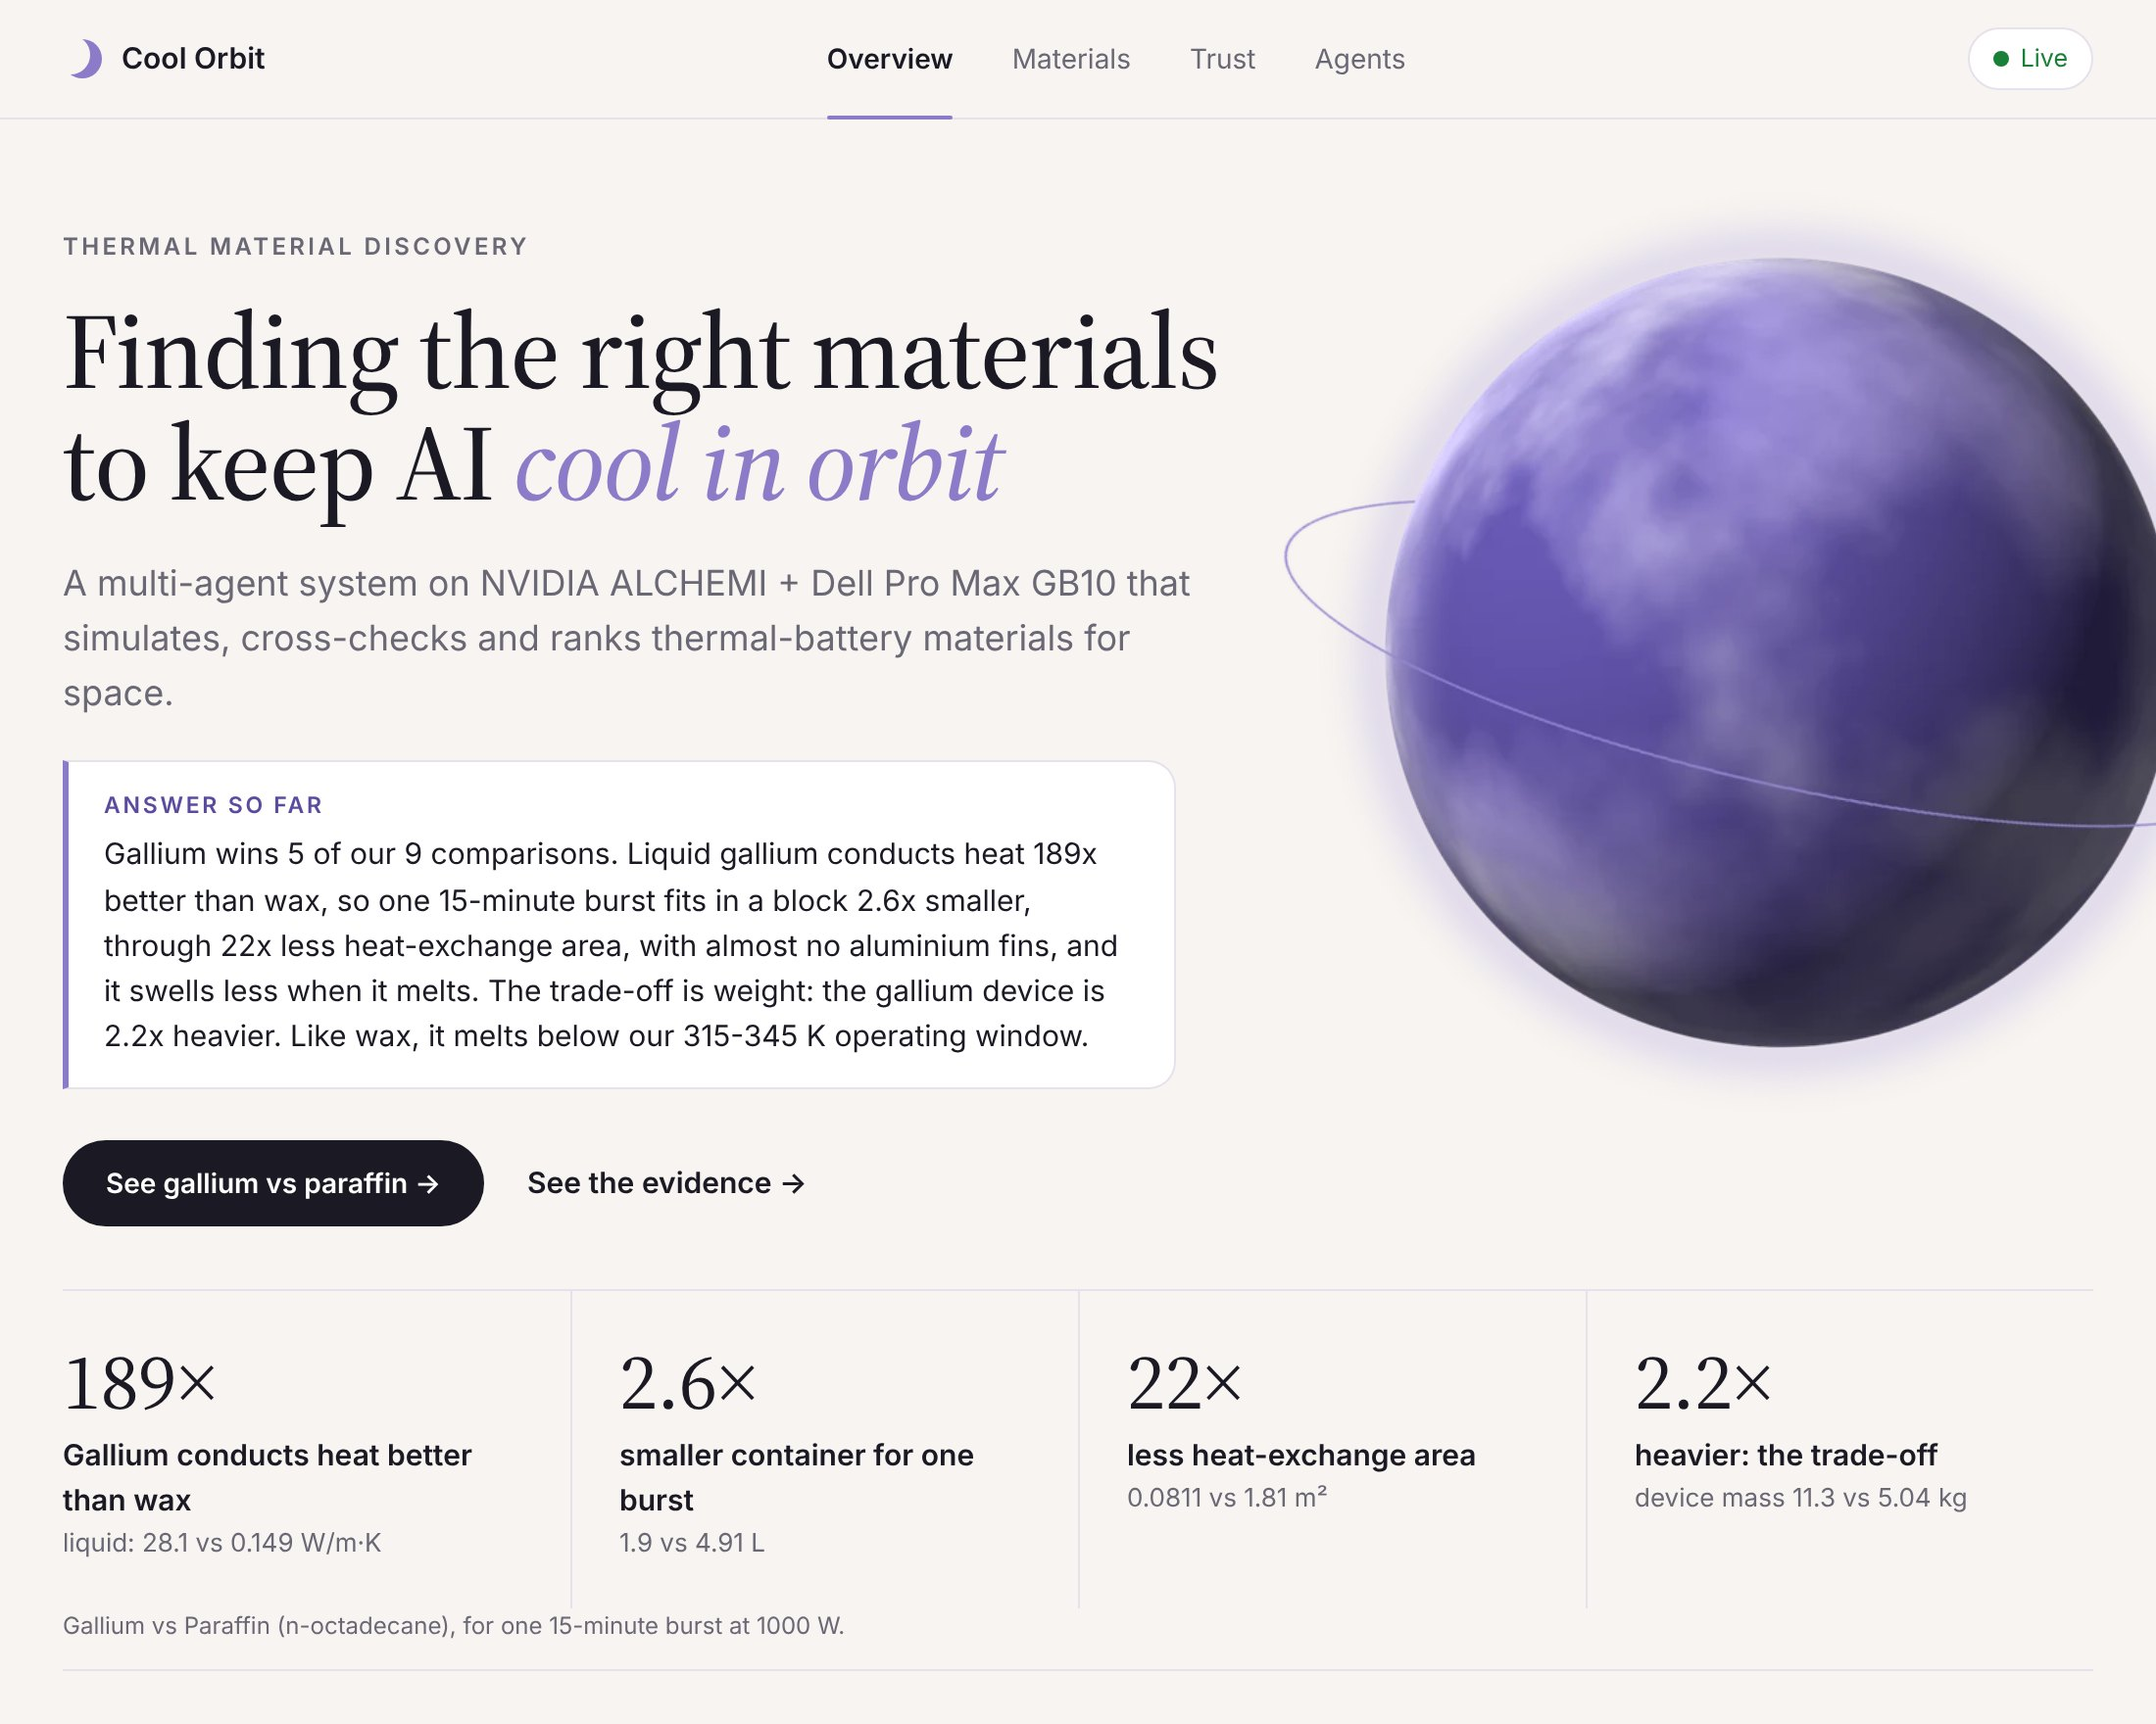
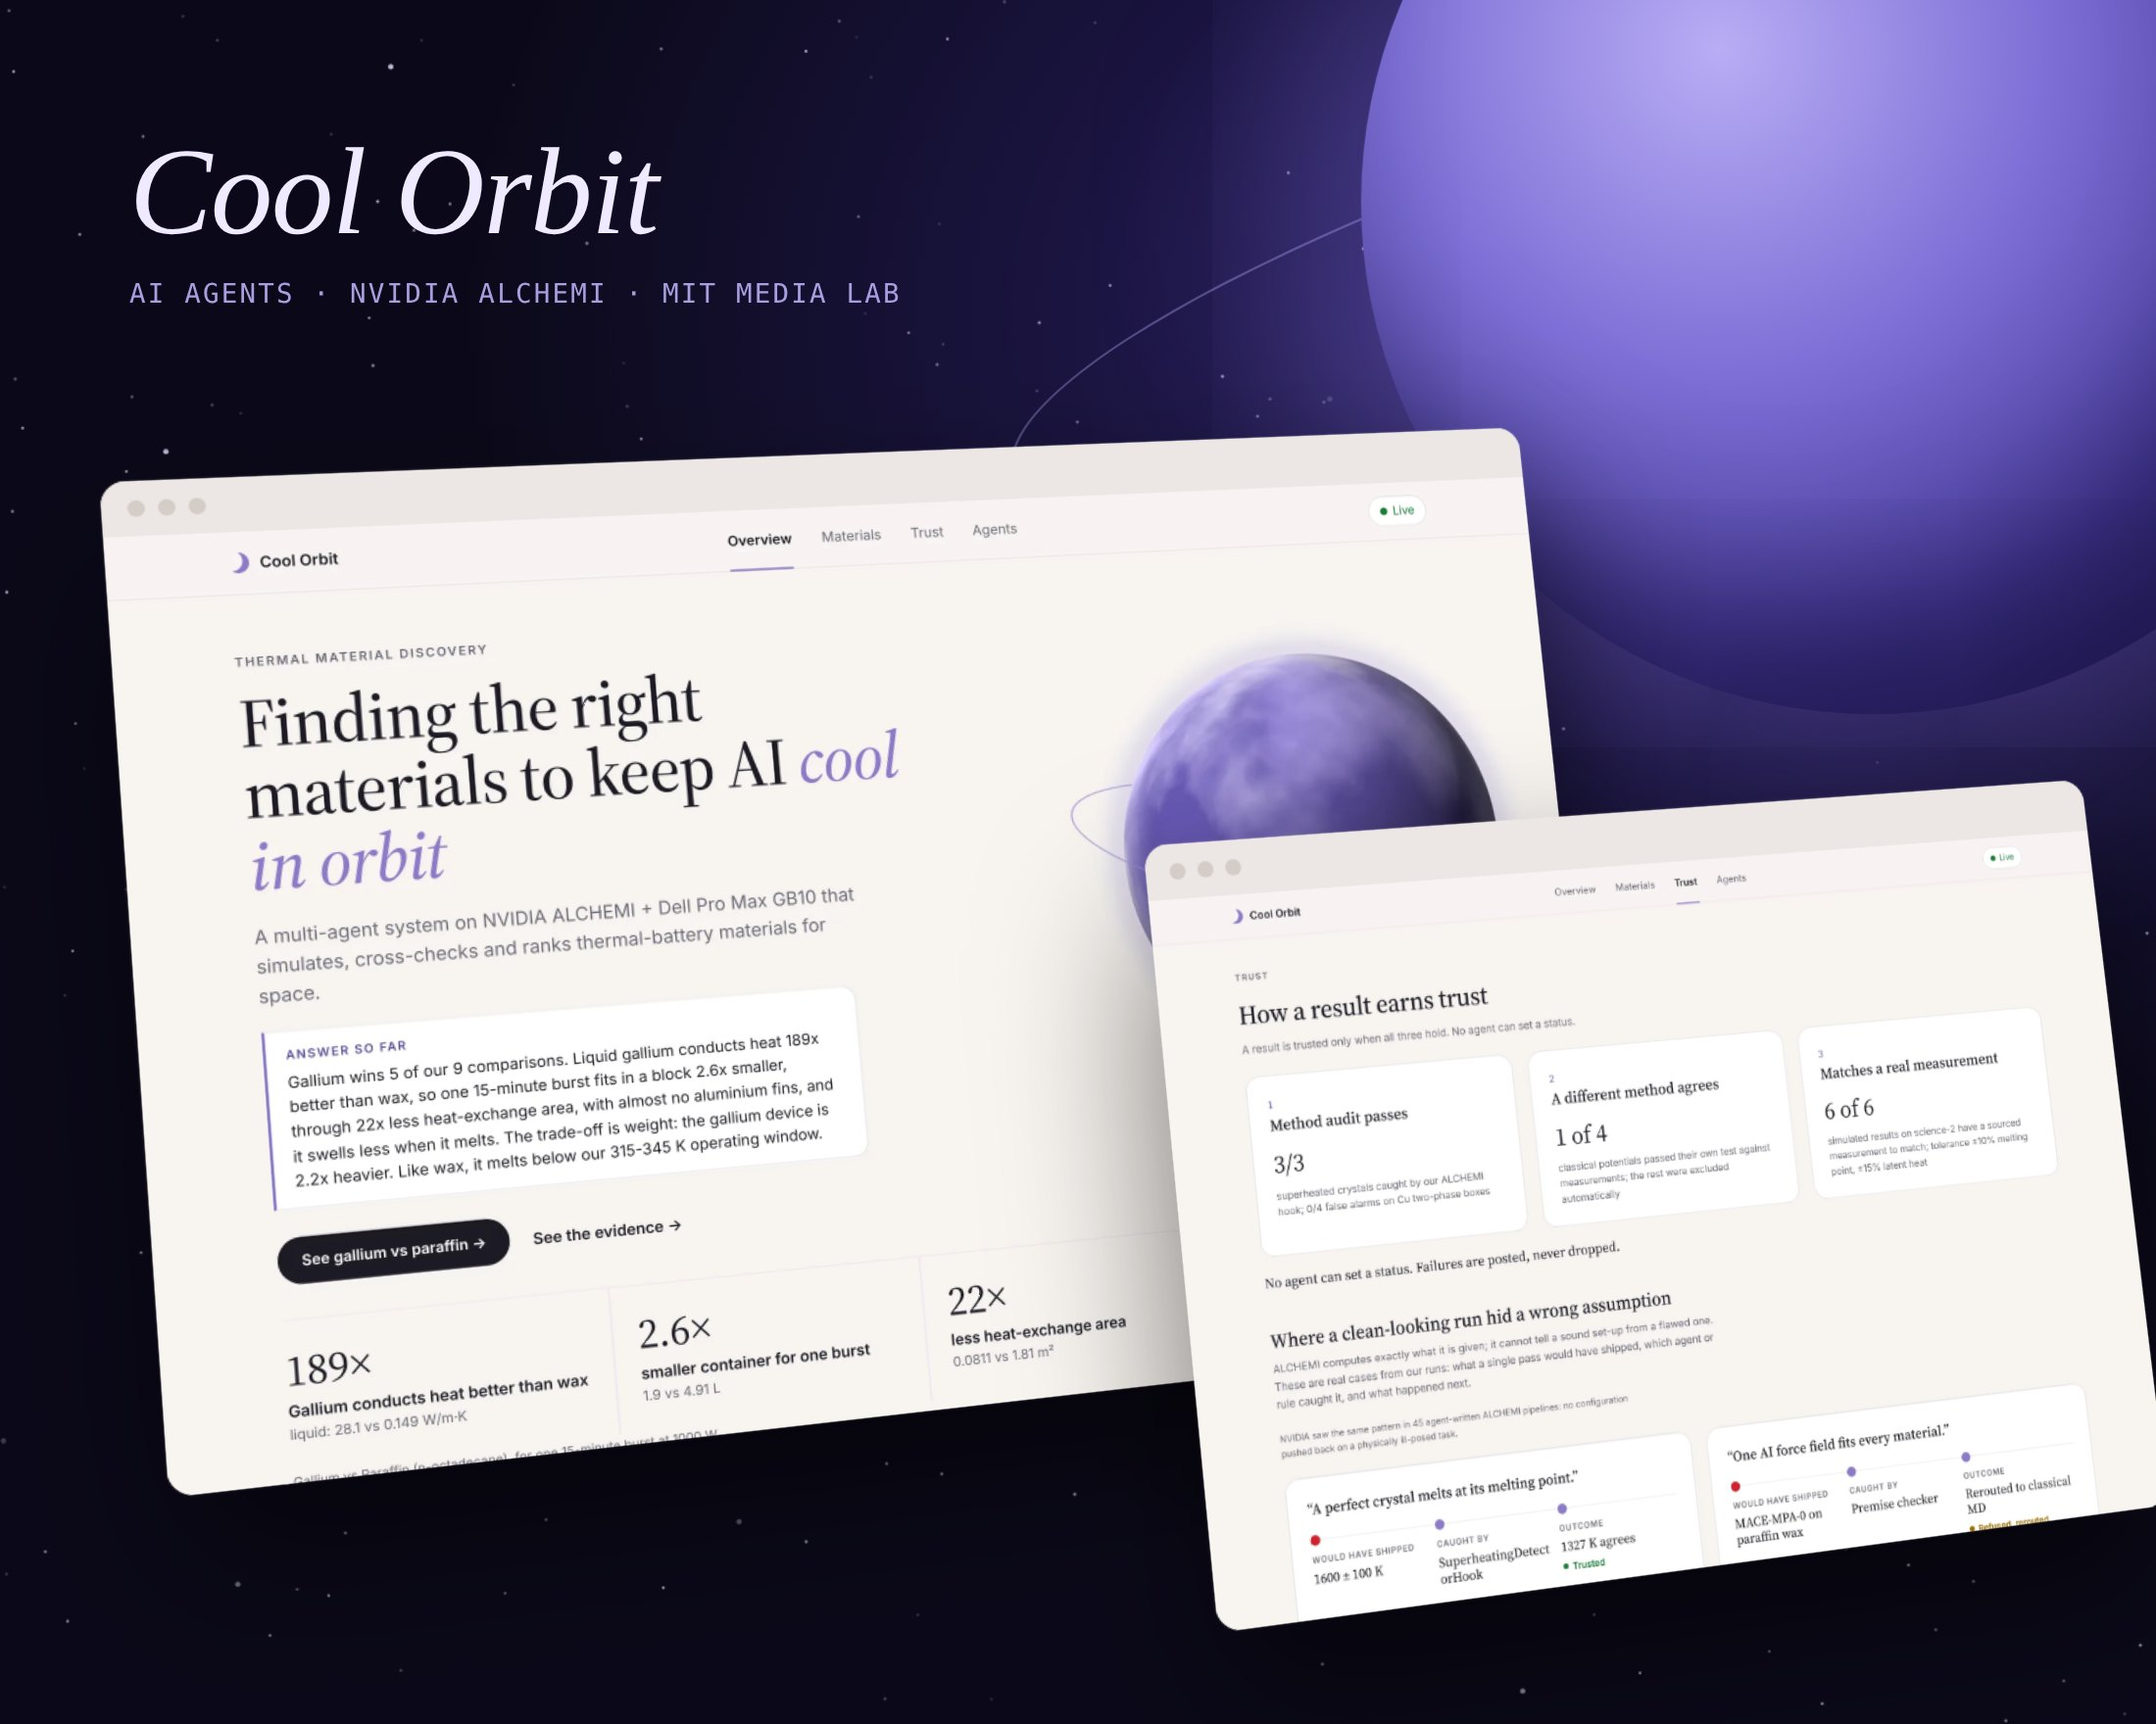
Update Cool Orbit case study images and drop the closing disclaimer

diff --git a/index.html b/index.html
@@ -1265,7 +1265,7 @@ h3.sub{font-size:clamp(24px,2.6vw,32px);margin-top:18px}
     <div style="display:flex;flex-wrap:wrap;gap:10px;margin-top:22px"><a class="btn" href="https://siakashyap06.github.io/cool-orbit/" target="_blank" rel="noopener">View dashboard <span class="arr">↗</span></a><a class="btn ghost" href="https://github.com/Siakashyap06/cool-orbit" target="_blank" rel="noopener">Check out the project <span class="arr">↗</span></a></div>
   </section>
 
-  <figure style="margin:0" data-r="img"><div class="media frame" style="border-radius:14px;overflow:hidden"><img src="coolorbit/overview.webp" alt="Cool Orbit dashboard overview: headline, the answer so far and four key numbers comparing gallium with paraffin"></div></figure>
+  <figure style="margin:0" data-r="img"><div class="media frame" style="border-radius:14px;overflow:hidden"><img src="coolorbit/co-hero.webp" alt="Cool Orbit dashboard: the Overview page in front of the Materials page, set against a starfield and a lavender planet"></div></figure>
 
   <section class="block">
     <span class="label"><span class="num">01</span> Overview</span>
@@ -1395,6 +1395,7 @@ h3.sub{font-size:clamp(24px,2.6vw,32px);margin-top:18px}
     <span class="label"><span class="num">11</span> Final product</span>
     <div class="prose wide">
       <h2>See it live</h2>
+      <figure style="margin:0" data-r="img"><div class="media frame" style="border-radius:14px;overflow:hidden"><img src="coolorbit/co-final.webp" alt="The Materials, Overview and Trust pages of the Cool Orbit dashboard side by side" loading="lazy"></div></figure>
       <div style="display:flex;gap:12px;flex-wrap:wrap">
         <a class="btn" href="https://siakashyap06.github.io/cool-orbit/" target="_blank" rel="noopener">Explore the dashboard <span class="arr">↗</span></a>
         <a class="btn ghost" href="https://github.com/Siakashyap06/cool-orbit" target="_blank" rel="noopener">View the code <span class="arr">↗</span></a>
@@ -1410,7 +1411,6 @@ h3.sub{font-size:clamp(24px,2.6vw,32px);margin-top:18px}
       <p>Building the sandbox and writing agent prompts meant I understood what the data actually meant before I designed how to show it. And showing the failures openly made the project more convincing, not less.</p>
     </div>
   </section>
-  <p class="disclaimer">Team project built at the ScienceClaw Hackathon at MIT Media Lab. Results are simulations and rankings, not a new material.</p>
 
   <a class="next" href="#ai-tarot"><div><span class="label">Next project</span><h2>AI Tarot Reader</h2></div><span class="btn ghost">View <span class="arr">↗</span></span></a>
 </main>
